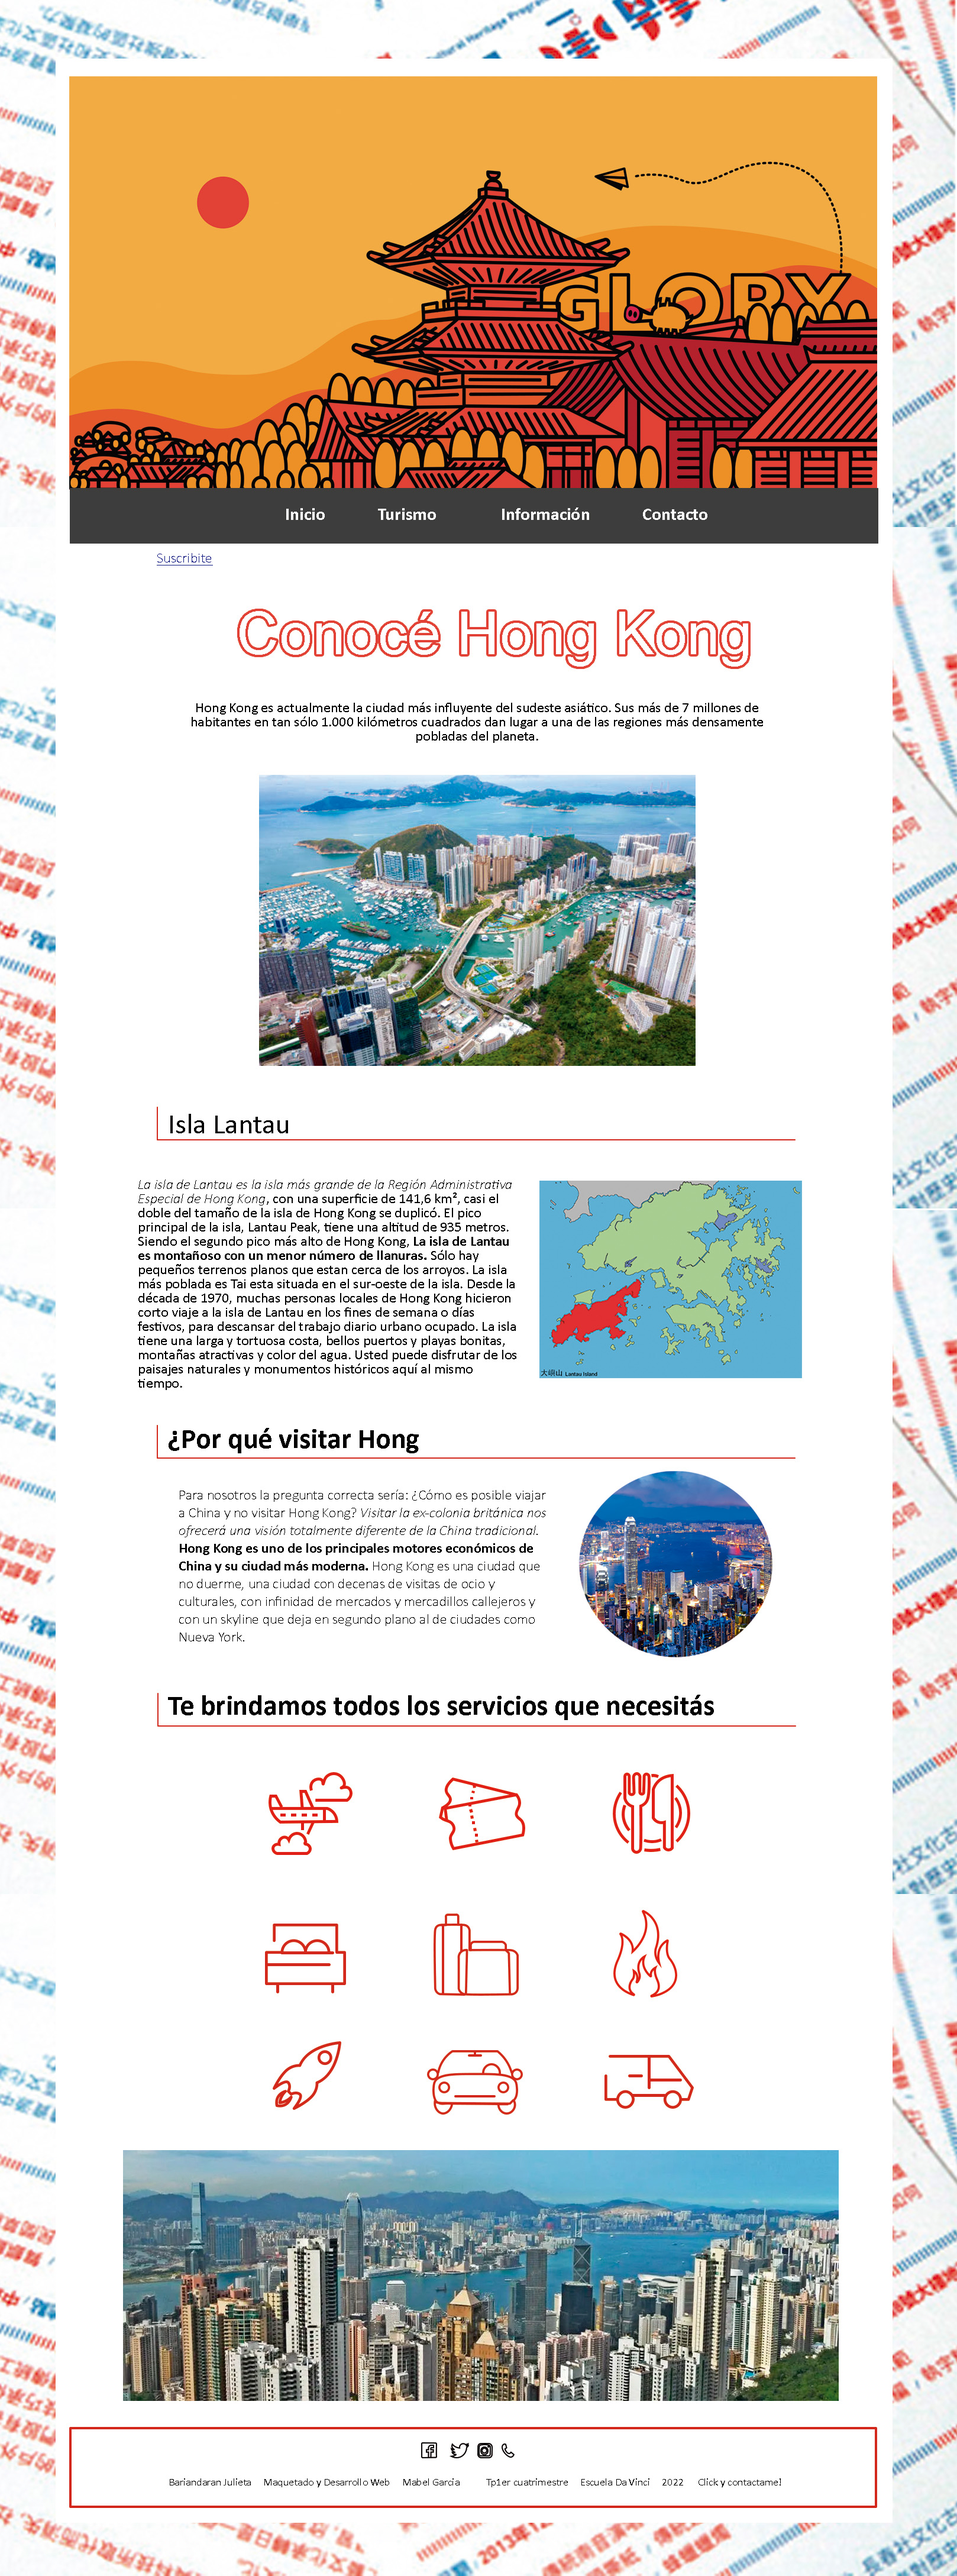
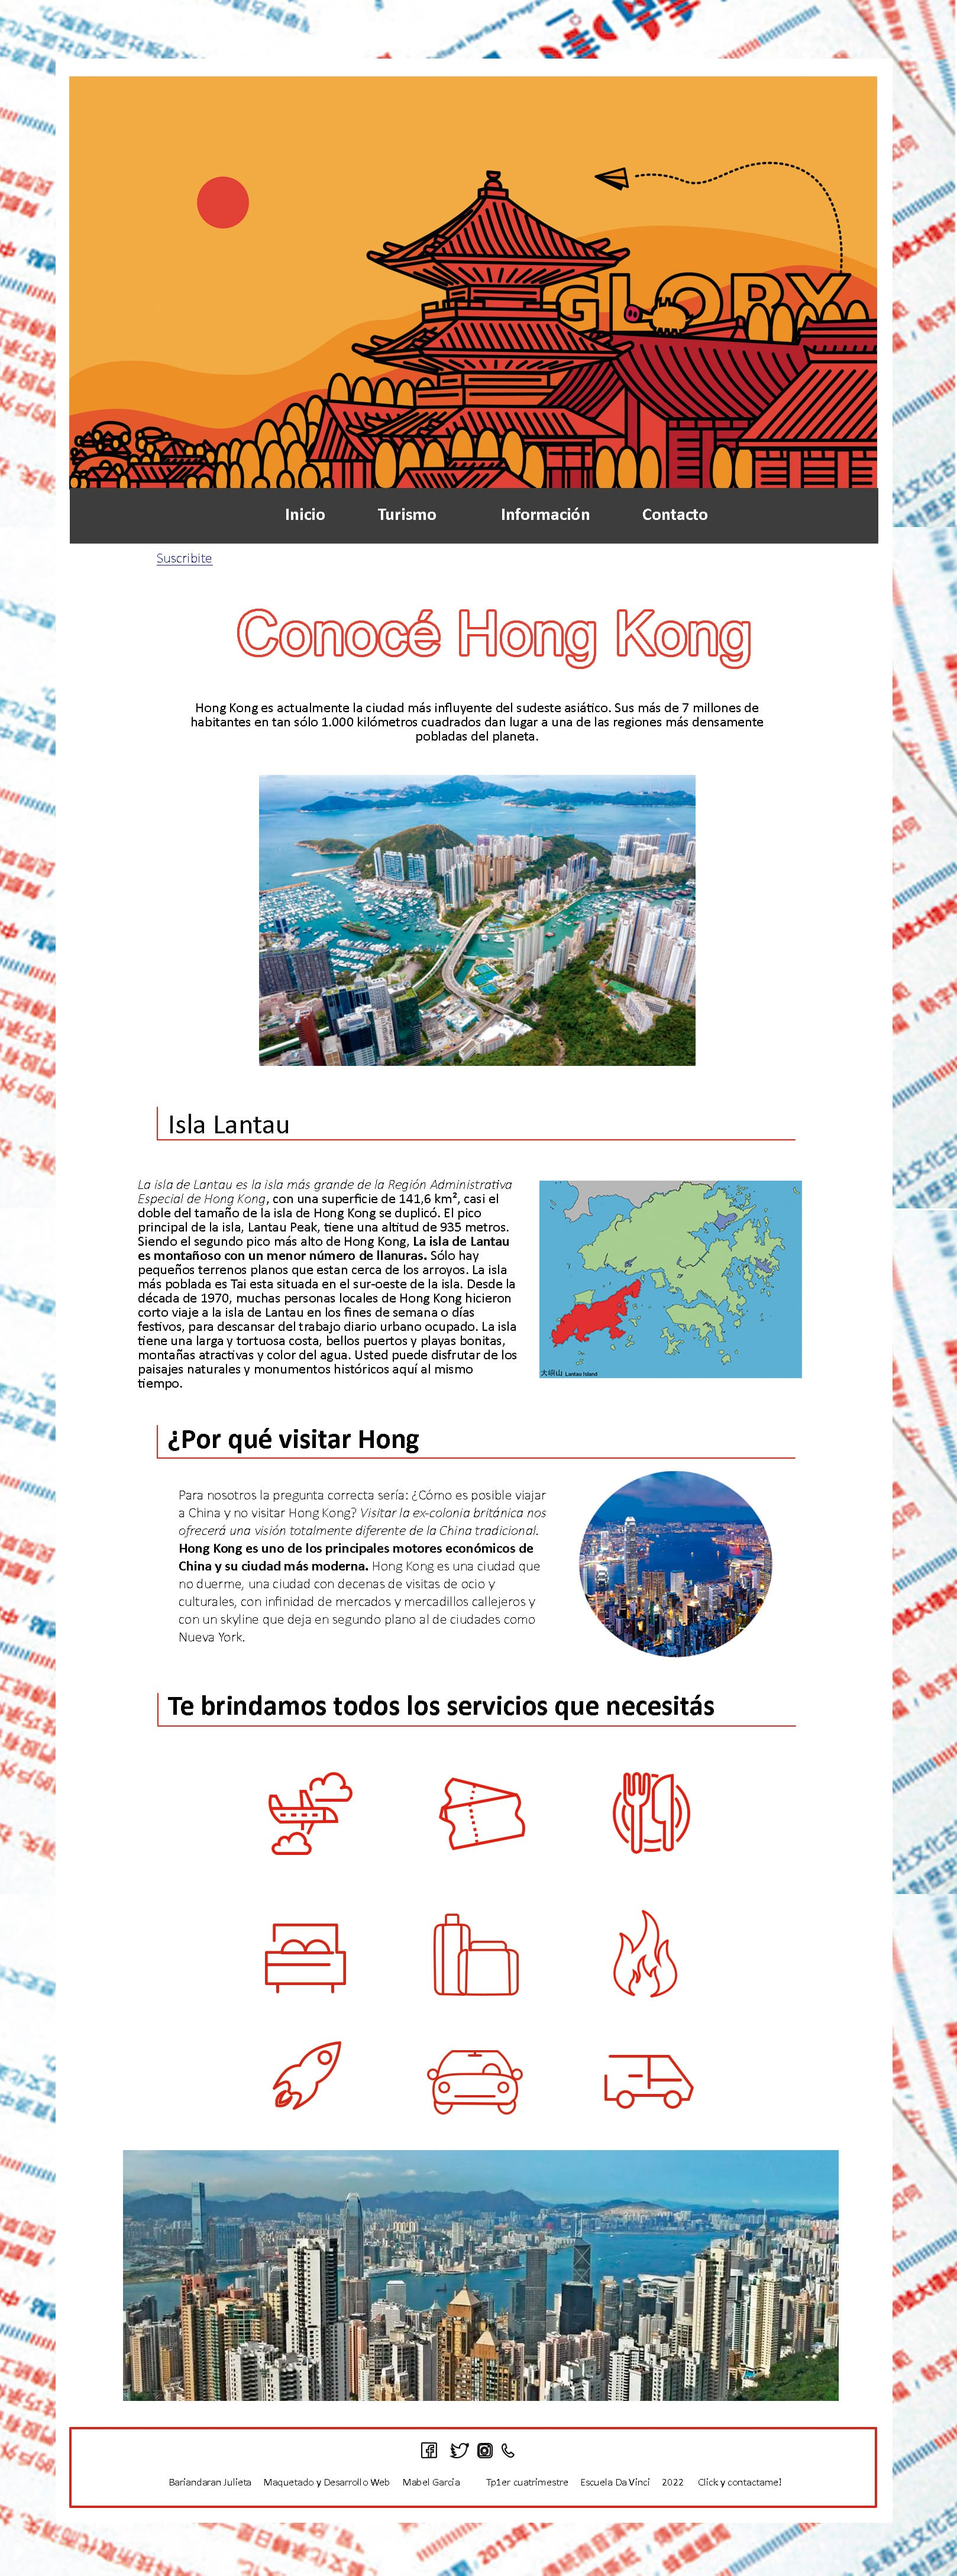
mejorasdesitio

diff --git a/interesturistico.html b/interesturistico.html
@@ -7,22 +7,22 @@
     <meta name="viewport" content="width=device-width, initial-scale=1.0">
     <link rel="stylesheet" href="./estilos/estilos.css" />
     <title> Hong kong</title>
-    <link rel="shortcut icon" href="./imágenes/piedepaginabuda2.png">
+    <link rel="shortcut icon" href="./imagenes/piedepaginabuda2.png">
 </head>
 
 <body>
     <div class="grandiv">
         <div id="header">
             <header>
-                <img src="imágenes/backgroundcolor.png" alt="banner de la pagina"/>
+                <img src="imagenes/backgroundcolor.png" alt="banner de la pagina"/>
             </header>
         </div>
         <div id="mytopnav">
             <nav>
                 <ul>
                     <li> <a href="index.html">Home</a></li>
-                    <li> <a href="interésturístico.html">Interés turístico</a></li>
-                    <li> <a href="información.html">Información</a></li>
+                    <li> <a href="interesturistico.html">Interés turístico</a></li>
+                    <li> <a href="informacion.html">Información</a></li>
                     <li> <a href="formulario.html">Formulario</a></li>
                 </ul>
             </nav>
@@ -51,7 +51,7 @@
                     llena de música. Un show gratuito que no hay perderse en esta gran ciudad.</p>
             </div>
             <div class="granimagenes">
-                <img src="imágenes/rascacielo.jpg" alt="Rascacielo" title="Rascacielo"/>
+                <img src="imagenes/rascacielo.jpg" alt="Rascacielo" title="Rascacielo"/>
             </div>
         </div>
         <div class="cajas">
@@ -65,7 +65,7 @@
                     grande del mundo se ubica en la cima de Ngong Ping, la parte más alta de la isla de Lantau.</p>
             </div>
             <div class="granimagenes">
-                <img src="imágenes/budatian.png" alt="Isla de Lantau" title="Isla de Lantau"/>
+                <img src="imagenes/budatian.png" alt="Isla de Lantau" title="Isla de Lantau"/>
             </div>
         </div>
         <div class="cajas">
@@ -77,7 +77,7 @@
                     vista espectacular de la ciudad que todx visitante debe disfrutar.</p>
             </div>
             <div class="granimagenes">
-                <img src="imágenes/victoriapeak.jpg" alt="Victoria Peak" title="Victoria Peak"/>
+                <img src="imagenes/victoriapeak.jpg" alt="Victoria Peak" title="Victoria Peak"/>
             </div>
         </div>
         <div class="cajas">
@@ -92,7 +92,7 @@
                     isla Hong Kong.</p>
             </div>
             <div class="granimagenes">
-                <img src="imágenes/avenida.jpg" alt="Avenida de las estrellas" title="Avenida de las estrellas"/>
+                <img src="imagenes/avenida.jpg" alt="Avenida de las estrellas" title="Avenida de las estrellas"/>
             </div>
         </div>
         <div class="cajas">
@@ -106,7 +106,7 @@
                     Goldfish Street, tiendas de peces y acuarios; entre otros.</p>
             </div>
             <div class="granimagenes">
-                <img src="imágenes/mongkok.jpg" alt="Mong Kok" title="Mong Kok"/>
+                <img src="imagenes/mongkok.jpg" alt="Mong Kok" title="Mong Kok"/>
             </div>
         </div>
         <div class="cajas">
@@ -123,7 +123,7 @@
                     squash, y un jardín destinado a la práctica del Tai Chi.</p>
             </div>
             <div class="granimagenes">
-                <img src="imágenes/parquehongkong.jpg" alt="Parque de Hong Kong" title="Parque de Hong Kong"/>
+                <img src="imagenes/parquehongkong.jpg" alt="Parque de Hong Kong" title="Parque de Hong Kong"/>
             </div>
         </div>
         <h2>¿Qué ver en Hong Kong?</h2>
@@ -132,7 +132,7 @@
             allowfullscreen></iframe>
         <footer>
             <div id="redessociales">
-                <img src="imágenes/redessociales.png" alt="redes sociales" title="redes sociales"/>
+                <img src="imagenes/redessociales.png" alt="redes sociales" title="redes sociales"/>
             </div>
 
             <div id="datos">

diff --git a/informacion.html b/informacion.html
@@ -7,22 +7,22 @@
     <meta name="viewport" content="width=device-width, initial-scale=1.0">
     <link rel="stylesheet" href="./estilos/estilos.css" />
     <title> Hong kong</title>
-    <link rel="shortcut icon" href="./imágenes/piedepaginabuda2.png">
+    <link rel="shortcut icon" href="./imagenes/piedepaginabuda2.png">
 </head>
 
 <body>
     <div class="grandiv">
         <div id="header">
             <header>
-                <img src="imágenes/backgroundcolor.png" alt="banner de la pagina"/>
+                <img src="imagenes/backgroundcolor.png" alt="banner de la pagina"/>
             </header>
         </div>
         <div id="mytopnav">
             <nav>
                 <ul>
                     <li> <a href="index.html">Home</a></li>
-                    <li> <a href="interésturístico.html">Interés turístico</a></li>
-                    <li> <a href="información.html">Información</a></li>
+                    <li> <a href="interesturistico.html">Interés turístico</a></li>
+                    <li> <a href="informacion.html">Información</a></li>
                     <li> <a href="formulario.html">Formulario</a></li>
                 </ul>
             </nav>
@@ -63,7 +63,7 @@
                 para otro.</p>
         </div>
         <div class="img22">
-            <img src="imágenes/chinos.jpg" alt="traducciones" title="traducciones"/>
+            <img src="imagenes/chinos.jpg" alt="traducciones" title="traducciones"/>
         </div>
         <h2>Monedas y billetes</h2>
         <div class="ultimotextoindex">
@@ -79,7 +79,7 @@
             </p>
         </div>
         <div id="monedita">
-            <img src="imágenes/monedahk.png" alt="moneda hong kong" title="moneda hong kong"/>
+            <img src="imagenes/monedahk.png" alt="moneda hong kong" title="moneda hong kong"/>
 
         </div>
         <div id="festividades">
@@ -111,29 +111,28 @@
                 </ul>
             </div>
             <div class="img22">
-                <img src="imágenes/lamparas.jpg" alt="año nuevo chino" title="año nuevo chino"/>
-                <img src="imágenes/1deJulio.jpg" alt="1 de julio" title="1 de julio"/>
+                <img src="imagenes/lamparas.jpg" alt="año nuevo chino" title="año nuevo chino"/>
+                <img src="imagenes/1deJulio.jpg" alt="1 de julio" title="1 de julio"/>
             </div>
         </div>
-
+        <footer>
+            <div id="redessociales">
+                <img src="imagenes/redessociales.png" alt="redes sociales" title="redes sociales"/>
+            </div>
+    
+            <div id="datos">
+                <ul>
+                    <li>Bariandaran Julieta</li>
+                    <li>Maquetado y Desarrollo Web</li>
+                    <li>Mabel Garcia</li>
+                    <li>Tp 1er cuatrimestre</li>
+                    <li>Escuela Da Vinci</li>
+                    <li>2022</li>
+                    <li><a href="mailto:julieta.bariandaran@davinci.edu.ar">Click y contactame!</a></li>
+                </ul>
+            </div>
+        </footer>
     </div>
-    <footer>
-        <div id="redessociales">
-            <img src="imágenes/redessociales.png" alt="redes sociales" title="redes sociales"/>
-        </div>
-
-        <div id="datos">
-            <ul>
-                <li>Bariandaran Julieta</li>
-                <li>Maquetado y Desarrollo Web</li>
-                <li>Mabel Garcia</li>
-                <li>Tp 1er cuatrimestre</li>
-                <li>Escuela Da Vinci</li>
-                <li>2022</li>
-                <li><a href="mailto:julieta.bariandaran@davinci.edu.ar">Click y contactame!</a></li>
-            </ul>
-        </div>
-    </footer>
 
 </body>
 

diff --git a/index.html b/index.html
@@ -7,20 +7,20 @@
     <meta name="viewport" content="width=device-width, initial-scale=1.0">
     <link rel="stylesheet" href="./estilos/estilos.css" />
     <title> Hong kong</title>
-    <link rel="shortcut icon" href="./imágenes/piedepaginabuda2.png">
+    <link rel="shortcut icon" href="./imagenes/piedepaginabuda2.png">
 </head>
 
 <body>
     <div class="grandiv">
         <header>
-            <img src="imágenes/backgroundcolor.png" alt="banner de la pagina"/>
+            <img src="imagenes/backgroundcolor.png" alt="banner de la pagina"/>
         </header>
         <div id="mytopnav">
             <nav>
                 <ul>
                     <li> <a href="index.html">Home</a></li>
-                    <li> <a href="interésturístico.html">Interés turístico</a></li>
-                    <li> <a href="información.html">Información</a></li>
+                    <li> <a href="interesturistico.html">Interés turístico</a></li>
+                    <li> <a href="informacion.html">Información</a></li>
                     <li> <a href="formulario.html">Formulario</a></li>
                 </ul>
             </nav>
@@ -42,7 +42,7 @@
             </p>
         </div>
         <div class="imagen">
-            <img src="imágenes/hongkonghome.jpg" alt="Hong Kong" title="Hong Kong"/>
+            <img src="imagenes/hongkonghome.jpg" alt="Hong Kong" title="Hong Kong"/>
         </div>
         <h2>Isla Lantau</h2>
         <div class="ultimotextoindex">
@@ -79,35 +79,33 @@
             </p>
         </div>
         <div id="ciudad">
-            <img src="imágenes/ciudad.png" alt="ciudad de hong kong" title="ciudad de hong kong"/>
+            <img src="imagenes/ciudad.png" alt="ciudad de hong kong" title="ciudad de hong kong"/>
         </div>
         <h2>Te brindamos todos los servicios que necesitás</h2>
         <div id="iconos">
-            <img src="imágenes/iconoshome.png" alt="Iconos"/>
+            <img src="imagenes/iconoshome.png" alt="Iconos"/>
         </div>
         <div class="imagen">
-            <img src="imágenes/hongkong.jpg" alt="Hong Kong" title="Hong Kong"/>
+            <img src="imagenes/hongkong.jpg" alt="Hong Kong" title="Hong Kong"/>
         </div>
-
+        <footer>
+            <div id="redessociales">
+                <img src="imagenes/redessociales.png" alt="redes sociales" title="redes sociales"/>
+            </div>
+    
+            <div id="datos">
+                <ul>
+                    <li>Bariandaran Julieta</li>
+                    <li>Maquetado y Desarrollo Web</li>
+                    <li>Mabel Garcia</li>
+                    <li>Tp 1er cuatrimestre</li>
+                    <li>Escuela Da Vinci</li>
+                    <li>2022</li>
+                    <li><a href="mailto:julieta.bariandaran@davinci.edu.ar">Click y contactame!</a></li>
+                </ul>
+            </div>
+        </footer>
     </div>
-
-    <footer>
-        <div id="redessociales">
-            <img src="imágenes/redessociales.png" alt="redes sociales" title="redes sociales"/>
-        </div>
-
-        <div id="datos">
-            <ul>
-                <li>Bariandaran Julieta</li>
-                <li>Maquetado y Desarrollo Web</li>
-                <li>Mabel Garcia</li>
-                <li>Tp 1er cuatrimestre</li>
-                <li>Escuela Da Vinci</li>
-                <li>2022</li>
-                <li><a href="mailto:julieta.bariandaran@davinci.edu.ar">Click y contactame!</a></li>
-            </ul>
-        </div>
-    </footer>
 </body>
 
 </html>

diff --git a/formulario.html b/formulario.html
@@ -7,22 +7,22 @@
     <meta name="viewport" content="width=device-width, initial-scale=1.0">
     <link rel="stylesheet" href="./estilos/estilos.css" />
     <title> Hong kong</title>
-    <link rel="shortcut icon" href="./imágenes/piedepaginabuda2.png">
+    <link rel="shortcut icon" href="./imagenes/piedepaginabuda2.png">
 </head>
 
 <body>
     <div class="grandiv">
         <div id="header">
             <header>
-                <img src="imágenes/backgroundcolor.png" alt="banner de la pagina"/>
+                <img src="imagenes/backgroundcolor.png" alt="banner de la pagina"/>
             </header>
         </div>
         <div id="mytopnav">
             <nav>
                 <ul>
                     <li> <a href="index.html">Home</a></li>
-                    <li> <a href="interésturístico.html">Interés turístico</a></li>
-                    <li> <a href="información.html">Información</a></li>
+                    <li> <a href="interesturistico.html">Interés turístico</a></li>
+                    <li> <a href="informacion.html">Información</a></li>
                     <li> <a href="formulario.html">Formulario</a></li>
                 </ul>
             </nav>
@@ -66,7 +66,7 @@
 
         <footer>
             <div id="redessociales">
-                <img src="imágenes/redessociales.png" alt="redes sociales" title="redes sociales"/>
+                <img src="imagenes/redessociales.png" alt="redes sociales" title="redes sociales"/>
             </div>
 
             <div id="datos">

diff --git a/estilos/estilos.css b/estilos/estilos.css
@@ -1,11 +1,11 @@
 body {
   margin: 4%;
-  background-image: url("../imágenes/backgroundddd.png");
-  background-repeat: repeat;
+  background-image: url("../imagenes/backgroundddd.png");
+  
 }
 
 .grandiv {
-  width: 97,5%;
+  width: 97%;
   padding: 1%;
   background-color: white;
 }
@@ -40,9 +40,11 @@ body {
 }
 
 header {
+  background-image: url("../imagenes/backgroundcolor.png");
   width: 100%;
   height: 100%;
-  background-image: url("../imágenes/backgroundcolor.png");
+  background: no-repeat;
+
 }
 
 nav {
@@ -246,7 +248,7 @@ footer li{
 }
 
 footer {
-  width: 97,5%;
+  width: 99%;
   border: 4px solid #d43a2f;
   padding: 2px;
   background-color: white;
